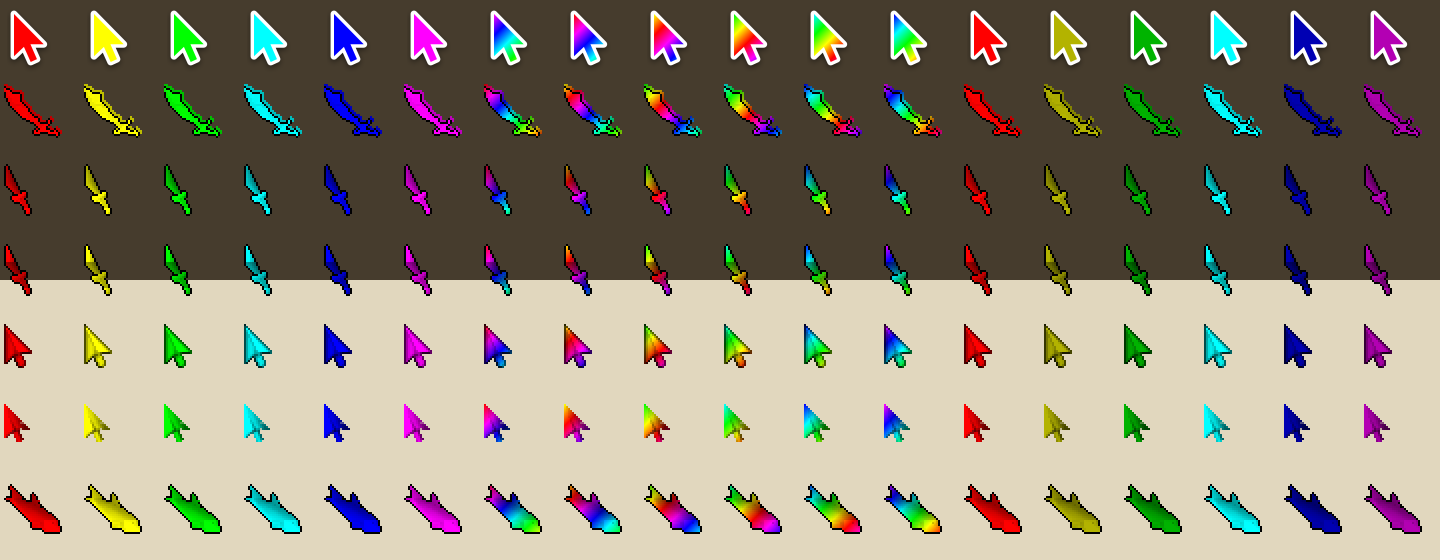
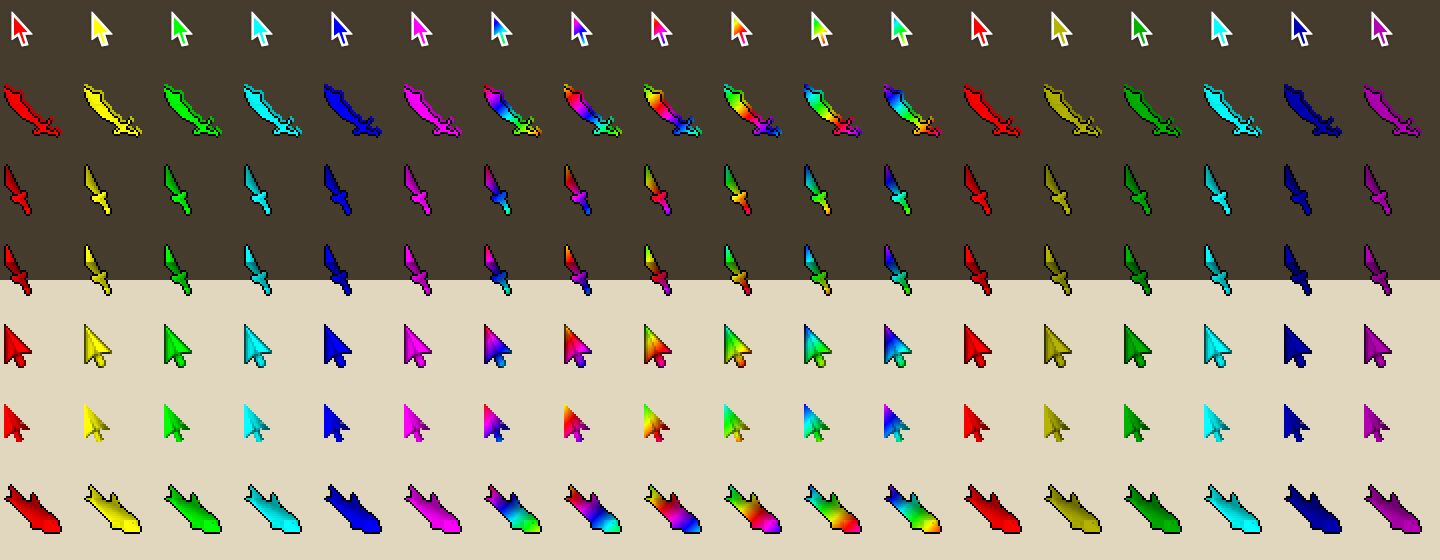
Match macOS pointer size and proportions; 1pt border, default 17pt

diff --git a/src/main/java/com/rgbcursor/CursorFrames.java b/src/main/java/com/rgbcursor/CursorFrames.java
@@ -10,6 +10,7 @@ import java.awt.RenderingHints;
 import java.awt.Shape;
 import java.awt.Toolkit;
 import java.awt.geom.AffineTransform;
+import java.awt.geom.Area;
 import java.awt.geom.Path2D;
 import java.awt.image.BaseMultiResolutionImage;
 import java.awt.image.BufferedImage;
@@ -27,11 +28,11 @@ final class CursorFrames
 {
 	static final int FRAME_COUNT = 60;
 
-	// macOS-style pointer outline, tip at (0, 0)
-	private static final double[] ARROW_X = {0, 0, 3.8, 6.4, 8.8, 6.3, 11.4};
-	private static final double[] ARROW_Y = {0, 16.2, 12.6, 18.4, 17.3, 11.6, 11.6};
-	private static final double ARROW_HEIGHT = 18.4;
-	private static final double ARROW_WIDTH = 11.4;
+	// Outer edge (border included) of the macOS pointer in points at its native 17pt height, tip at (0, 0)
+	private static final double[] ARROW_X = {0, 0, 3.0, 4.9, 7.8, 6.1, 9.8};
+	private static final double[] ARROW_Y = {0, 13.5, 11.4, 16.6, 16.0, 10.8, 10.8};
+	private static final double ARROW_HEIGHT = 16.6;
+	private static final double ARROW_WIDTH = 9.8;
 
 	private static final Color SHADOW = new Color(0, 0, 0, 110);
 
@@ -181,10 +182,10 @@ final class CursorFrames
 	private static Layers renderArrow(int size, boolean outline, int scale, Point hotspot)
 	{
 		// Geometry is laid out in 1x pixels, then everything is multiplied by scale so 1x and 2x line up exactly
-		final double border = outline ? Math.max(1.0, size / 14.0) : 0;
-		final double blur = Math.max(1.0, size / 16.0);
-		final double shadowDrop = Math.max(1.0, size / 20.0);
-		final int pad = (int) Math.ceil(border + blur) + 1;
+		final double border = outline ? size / 17.0 : 0;
+		final double blur = size / 16.0;
+		final double shadowDrop = size / 20.0;
+		final int pad = (int) Math.ceil(blur * 2) + 1;
 		final double unit = size / ARROW_HEIGHT;
 		final int w1 = (int) Math.ceil(ARROW_WIDTH * unit) + pad * 2;
 		final int h1 = size + pad * 2 + (int) Math.ceil(shadowDrop);
@@ -202,8 +203,18 @@ final class CursorFrames
 		tx.scale(scale, scale);
 		tx.translate(pad, pad);
 		tx.scale(unit, unit);
-		Shape shape = tx.createTransformedShape(arrow);
-		BasicStroke borderStroke = new BasicStroke((float) (border * 2 * scale), BasicStroke.CAP_ROUND, BasicStroke.JOIN_ROUND);
+		final Shape outer = tx.createTransformedShape(arrow);
+
+		// The colored fill is the outline inset by the border width; the white border is the full outline beneath it,
+		// traced with a hairline round stroke to soften the corners slightly like macOS does
+		Shape fill = outer;
+		if (outline)
+		{
+			Area inset = new Area(outer);
+			inset.subtract(new Area(new BasicStroke((float) (border * 2 * scale)).createStrokedShape(outer)));
+			fill = inset;
+		}
+		final BasicStroke soften = new BasicStroke((float) (0.6 * scale), BasicStroke.CAP_ROUND, BasicStroke.JOIN_ROUND);
 
 		Layers layers = new Layers();
 
@@ -212,30 +223,30 @@ final class CursorFrames
 		Graphics2D g = antialiased(silhouette);
 		g.setColor(SHADOW);
 		g.translate(0, shadowDrop * scale);
-		g.fill(shape);
-		if (outline)
-		{
-			g.setStroke(borderStroke);
-			g.draw(shape);
-		}
+		g.fill(outer);
 		g.dispose();
 		layers.under = blur(silhouette, (int) Math.round(blur * scale));
 
-		g = antialiased(layers.under);
-		g.setColor(Color.WHITE);
-		g.fill(shape);
 		if (outline)
 		{
-			g.setStroke(borderStroke);
-			g.draw(shape);
+			g = antialiased(layers.under);
+			g.setColor(Color.WHITE);
+			g.fill(outer);
+			g.setStroke(soften);
+			g.draw(outer);
+			g.dispose();
 		}
-		g.dispose();
 
 		// The fill is drawn white so the brightness-based recolor turns it fully saturated
 		layers.tint = new BufferedImage(w, h, BufferedImage.TYPE_INT_ARGB);
 		g = antialiased(layers.tint);
 		g.setColor(Color.WHITE);
-		g.fill(shape);
+		g.fill(fill);
+		if (!outline)
+		{
+			g.setStroke(soften);
+			g.draw(fill);
+		}
 		g.dispose();
 
 		hotspot.setLocation(pad, pad);

diff --git a/src/main/java/com/rgbcursor/RgbCursorPlugin.java b/src/main/java/com/rgbcursor/RgbCursorPlugin.java
@@ -37,7 +37,7 @@ public class RgbCursorPlugin extends Plugin
 	private RgbCursorConfig config;
 
 	private static final Set<String> CURSOR_KEYS = ImmutableSet.of(
-		"cursorEnabled", "shape", "effect", "cycleSeconds", "saturation", "size", "outline");
+		"cursorEnabled", "shape", "effect", "cycleSeconds", "saturation", "arrowSize", "outline");
 
 	private final long startNanos = System.nanoTime();
 
@@ -87,7 +87,7 @@ public class RgbCursorPlugin extends Plugin
 			return;
 		}
 
-		frames = CursorFrames.build(config.shape(), config.effect(), config.size(), config.saturation() / 100f, config.outline());
+		frames = CursorFrames.build(config.shape(), config.effect(), config.arrowSize(), config.saturation() / 100f, config.outline());
 
 		int delay = Math.max(16, config.cycleSeconds() * 1000 / CursorFrames.FRAME_COUNT);
 		timer = new Timer(delay, e -> tick());

diff --git a/src/main/java/com/rgbcursor/RgbCursorConfig.java b/src/main/java/com/rgbcursor/RgbCursorConfig.java
@@ -67,17 +67,17 @@ public interface RgbCursorConfig extends Config
 		return 100;
 	}
 
-	@Range(min = 12, max = 64)
+	@Range(min = 12, max = 48)
 	@Units(Units.PIXELS)
 	@ConfigItem(
-		keyName = "size",
-		name = "Size",
-		description = "Height of the arrow shape (image shapes keep their own size)",
+		keyName = "arrowSize",
+		name = "Arrow size",
+		description = "Height of the arrow; 17 matches the default macOS pointer (image shapes keep their own size)",
 		position = 4
 	)
-	default int size()
+	default int arrowSize()
 	{
-		return 24;
+		return 17;
 	}
 
 	@ConfigItem(

diff --git a/src/test/java/com/rgbcursor/CursorPreview.java b/src/test/java/com/rgbcursor/CursorPreview.java
@@ -29,7 +29,7 @@ public class CursorPreview
 		{
 			for (int e = 0; e < effects.length; e++)
 			{
-				BufferedImage[] frames = CursorFrames.render(shapes[s], effects[e], 24, 1f, true, 2, new Point());
+				BufferedImage[] frames = CursorFrames.render(shapes[s], effects[e], 17, 1f, true, 2, new Point());
 				for (int p = 0; p < picks.length; p++)
 				{
 					g.drawImage(frames[picks[p]], (e * picks.length + p) * cell + 4, s * cell + 4, null);
